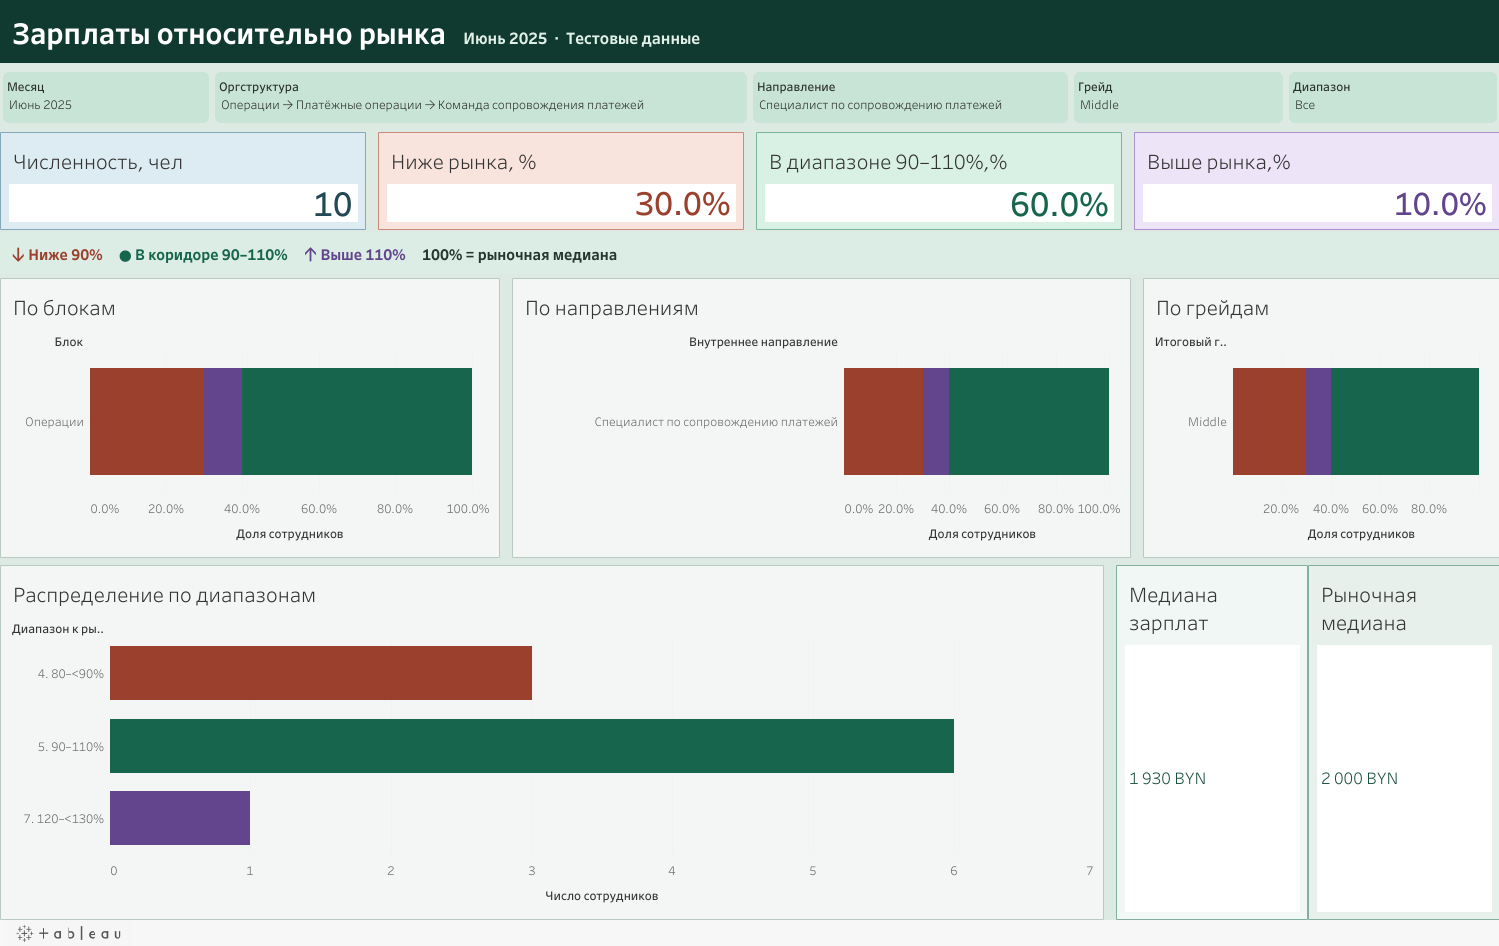
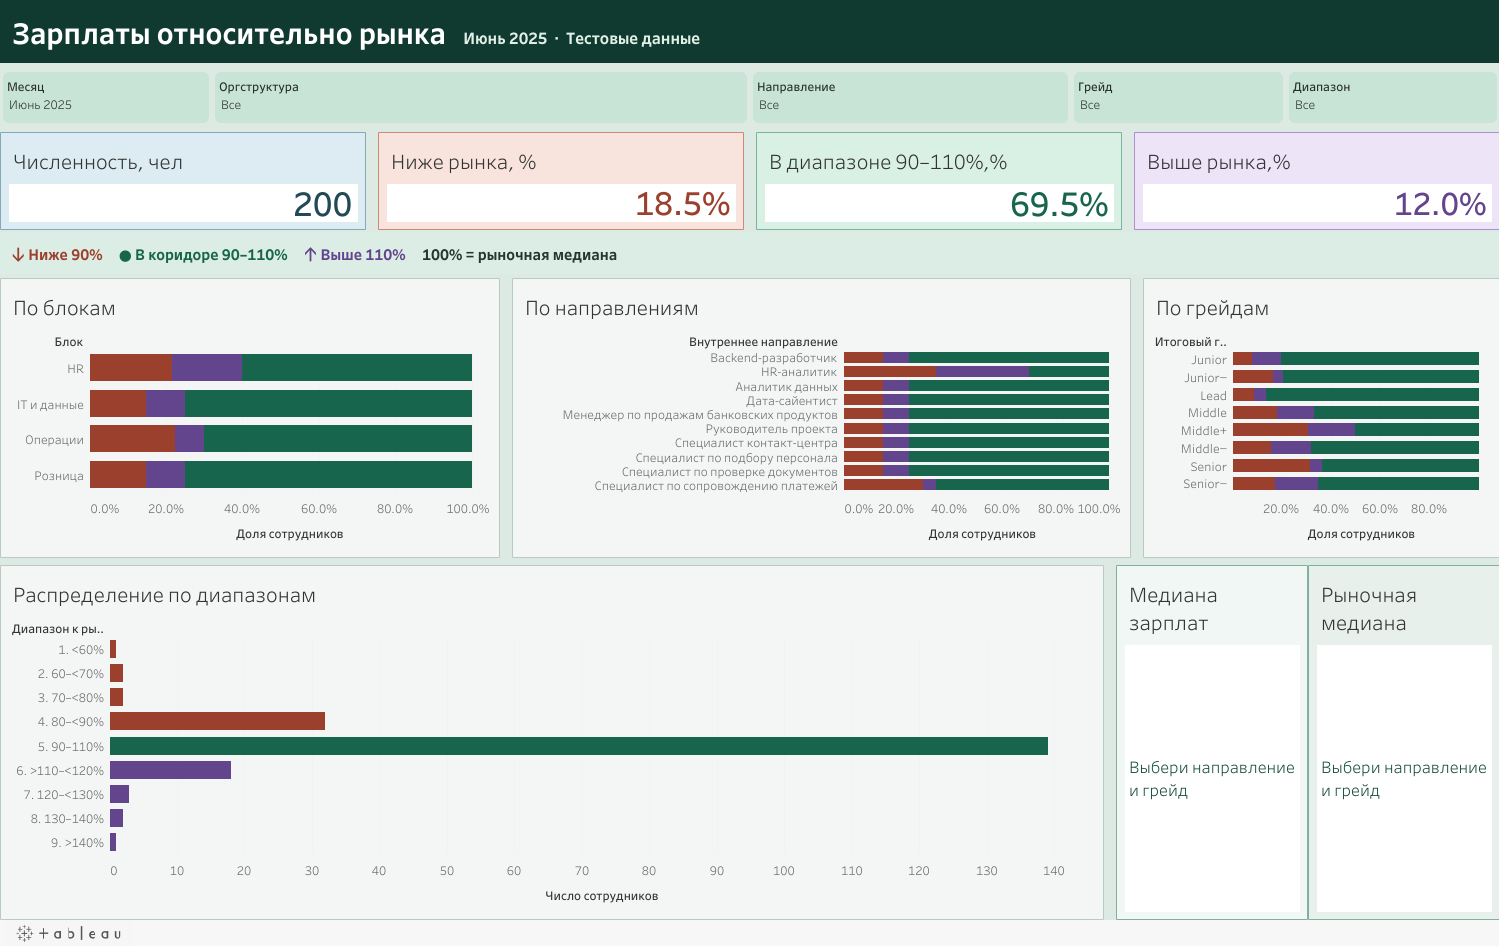
Show the unfiltered salary dashboard preview

diff --git a/index.html b/index.html
@@ -96,9 +96,9 @@
             <h3>Зарплатный рынок</h3>
             <figure>
               <a class="career-project-image" href="./previews/salary.png" target="_blank" rel="noopener" aria-label="Увеличить превью — Зарплатный рынок">
-                <img src="./previews/salary.png" width="1499" height="946" loading="lazy" alt="Срез по оплате специалистов Middle: 10 сотрудников, 30% ниже рынка">
+                <img src="./previews/salary.png" width="1499" height="946" loading="lazy" alt="Общий срез на 200 сотрудников: распределение зарплат относительно рынка по блокам, направлениям и грейдам">
               </a>
-              <figcaption>Июнь 2025 · сопровождение платежей · Middle</figcaption>
+              <figcaption>Июнь 2025 · общий срез · 200 сотрудников</figcaption>
             </figure>
             <a class="career-project-link" href="https://public.tableau.com/views/salary-market-month-styled/sheet10?:showVizHome=no" target="_blank" rel="noopener" aria-label="Открыть в Tableau Public — Зарплатный рынок">Открыть в Tableau Public <span aria-hidden="true">↗</span></a>
             <div class="career-project-copy">

diff --git a/en/index.html b/en/index.html
@@ -96,9 +96,9 @@
             <h3>Salary Benchmarking</h3>
             <figure>
               <a class="career-project-image" href="../previews/salary.png" target="_blank" rel="noopener" aria-label="Enlarge preview — Salary Benchmarking">
-                <img src="../previews/salary.png" width="1499" height="946" loading="lazy" alt="Mid-level salary comparison: 10 employees, 30% below the market range">
+                <img src="../previews/salary.png" width="1499" height="946" loading="lazy" alt="Salary benchmarking overview for 200 employees by division, business area, and job grade">
               </a>
-              <figcaption>June 2025 · payment support · Middle</figcaption>
+              <figcaption>June 2025 · all groups · 200 employees</figcaption>
             </figure>
             <a class="career-project-link" href="https://public.tableau.com/views/salary-market-month-styled/sheet10?:showVizHome=no" target="_blank" rel="noopener" aria-label="View on Tableau Public — Salary Benchmarking">View on Tableau Public <span aria-hidden="true">↗</span></a>
             <div class="career-project-copy">
